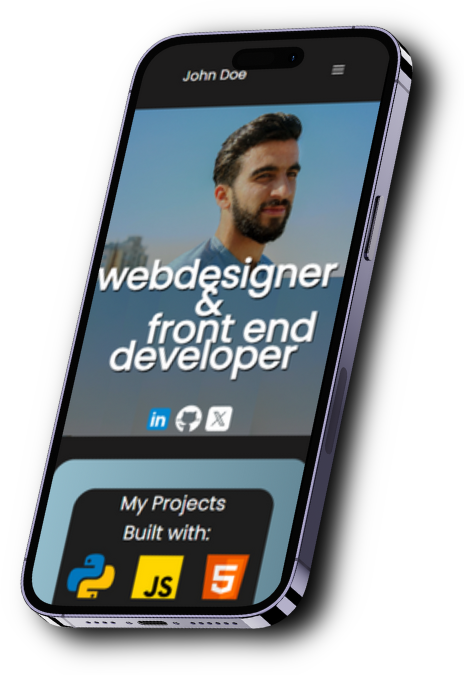
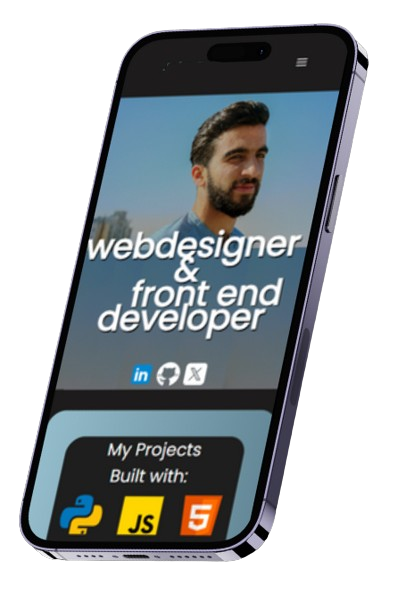
card design fixed on mobile and mobileR image edited

diff --git a/src/app/components/ui/card-stack.tsx b/src/app/components/ui/card-stack.tsx
@@ -39,12 +39,12 @@ export const CardStack = ({
   };
 
   return (
-    <div className="relative  h-60 w-[22rem] md:h-60 md:w-96">
+    <div className="relative  h-60 w-[20rem] md:h-60 md:w-96">
       {cards.map((card, index) => {
         return (
           <motion.div
             key={card.id}
-            className="absolute  dark:bg-black bg-white h-60 w-[22rem] md:h-60 md:w-96 p-4 rounded-3xl  shadow-xl border border-neutral-200 dark:border-white/[0.1]  shadow-black/[0.1] dark:shadow-white/[0.05] flex flex-col justify-between"
+            className="absolute  dark:bg-black bg-white h-60 w-[20rem] md:h-60 md:w-96 p-4 rounded-3xl  shadow-xl border border-neutral-200 dark:border-white/[0.1]  shadow-black/[0.1] dark:shadow-white/[0.05] flex flex-col justify-between"
             style={{
               transformOrigin: "top center",
             }}

diff --git a/src/app/components/ui/3d-pin.tsx b/src/app/components/ui/3d-pin.tsx
@@ -75,7 +75,7 @@ export const PinPerspective = ({
 }) => {
     
   return (
-    <motion.div  className="pointer-events-none  w-96 h-80 flex items-center justify-center opacity-0 group-hover/pin:opacity-100 z-[60] transition duration-500">
+    <motion.div  className="pointer-events-none w-[20rem] md:w-96 h-80 flex items-center justify-center opacity-0 group-hover/pin:opacity-100 z-[60] transition duration-500">
       <div className=" w-full h-full -mt-7 flex-none  inset-0" >
         <div className="absolute top-0 inset-x-0  flex justify-center" >
           <span
